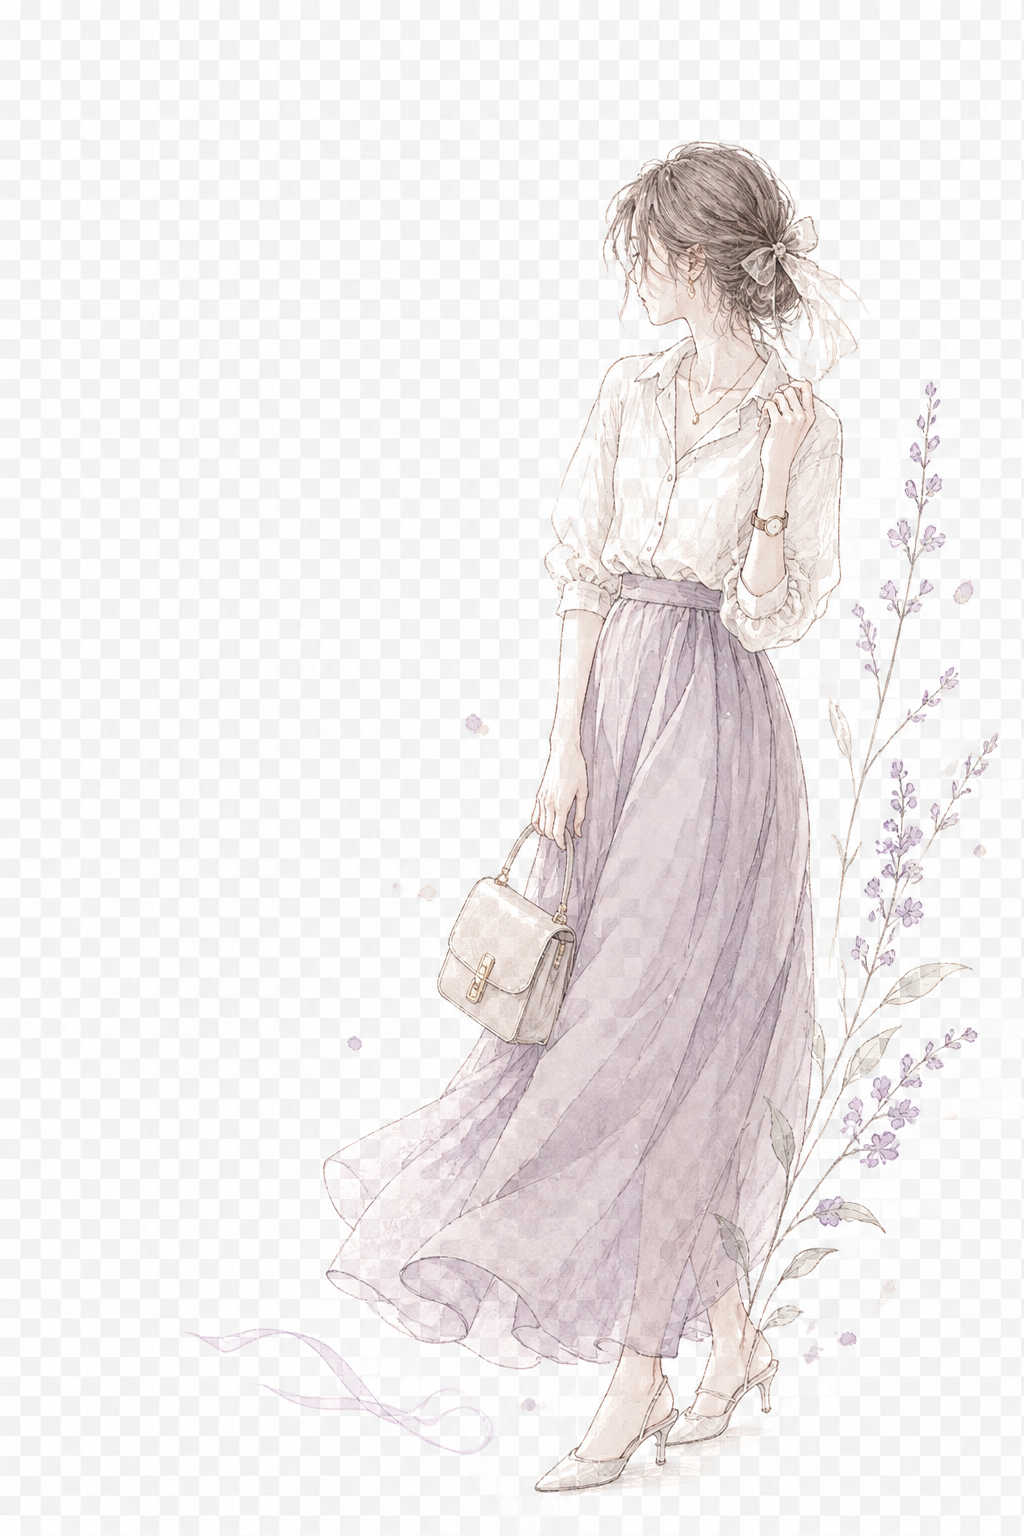
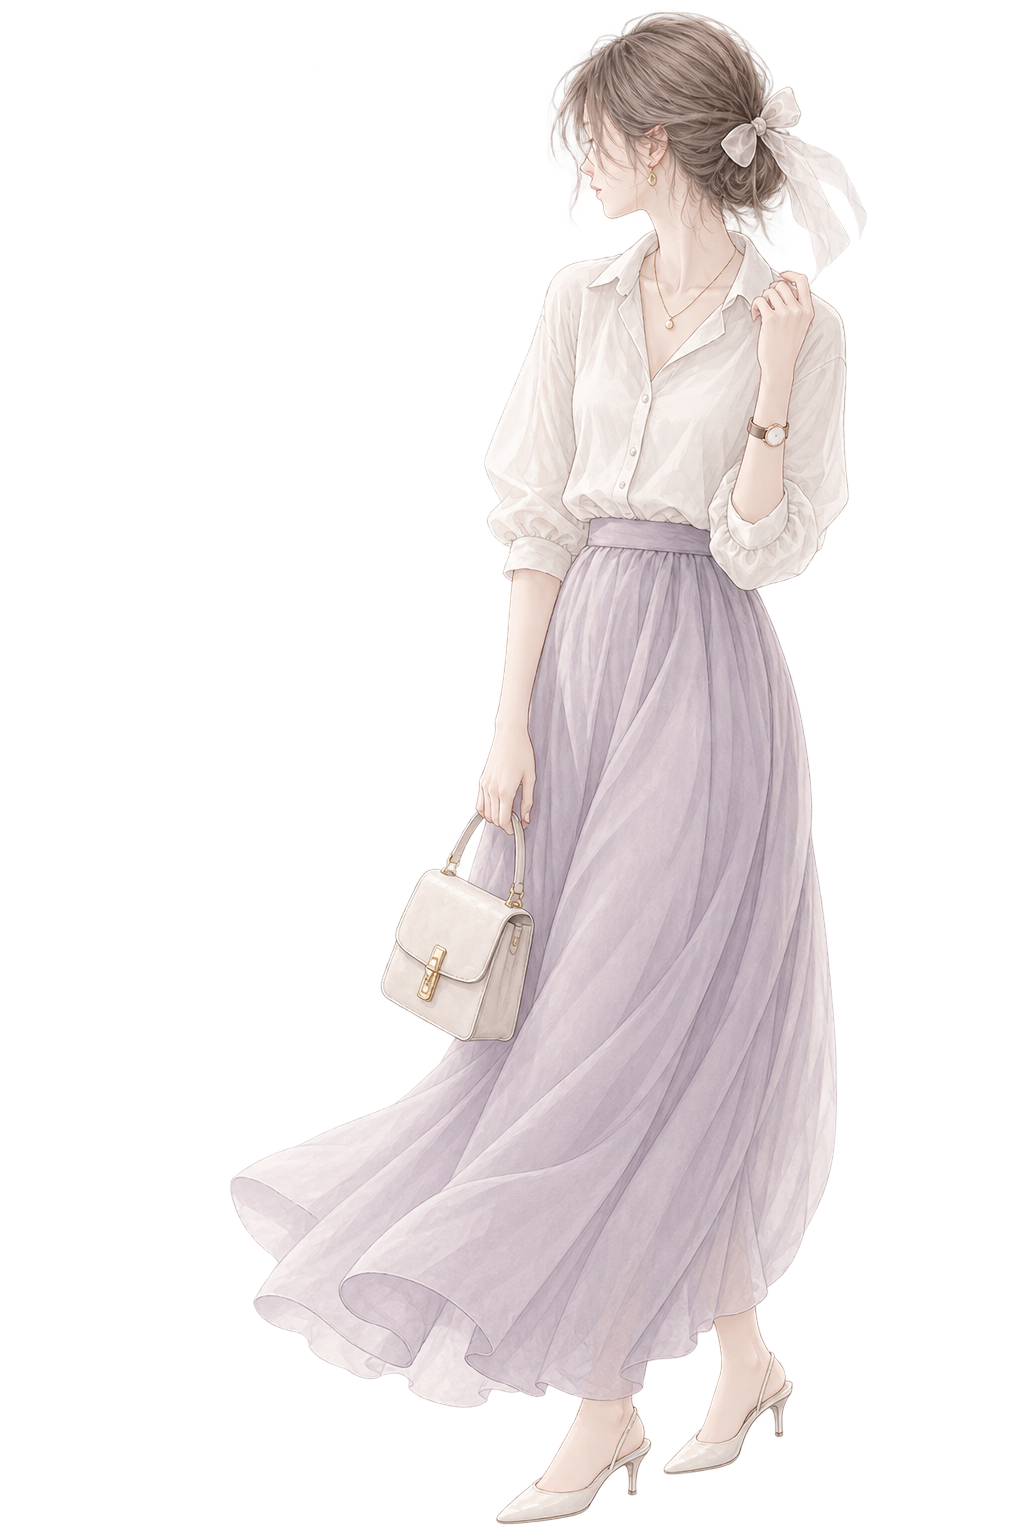
fix: simplify hero to single transparent floating illustration and fix desktop animation

Changed region(s): [[0.2188, 0.0, 0.9688, 1.0], [0.9375, 0.375, 0.9688, 0.4062], [0.8125, 0.8438, 0.8438, 0.875]]

diff --git a/style.css b/style.css
@@ -77,83 +77,100 @@ header {
 }
 
 /* ==========================================================================
-   HERO EDITORIAL SECTION
+   HERO EDITORIAL SECTION (CLEAN SINGLE ART)
    ========================================================================== */
 
-.hero-section {
-  position: relative;
-  width: 100%;
-  height: 440px;
-  background-color: #faf9f8;
-  overflow: hidden;
-  display: flex;
-  align-items: center;
-  margin-bottom: 40px;
-  border-bottom: 1px solid rgba(229, 229, 229, 0.6);
-}
-
-/* Gambar 1: Background Halus (Menempel Penuh di Sisi Kanan) */
-.hero-bg-art {
-  position: absolute;
-  top: 0;
-  right: 0;
-  width: 65%;
-  min-width: 600px;
-  height: 100%;
-  object-fit: cover;
-  object-position: right center;
-  opacity: 0.16;
-  pointer-events: none;
-  z-index: 0;
-  -webkit-mask-image: linear-gradient(to right, transparent 0%, rgba(0,0,0,1) 45%);
-  mask-image: linear-gradient(to right, transparent 0%, rgba(0,0,0,1) 45%);
-}
-
-/* Typography Hero */
-.hero-content {
-  position: relative;
-  z-index: 2;
-  max-width: 520px;
-  margin-left: max(5%, calc((100vw - 1200px) / 2 + 16px));
-  pointer-events: none;
-}
-
-.hero-title {
-  font-family: 'Cormorant Garamond', Georgia, serif;
-  font-size: 40px;
-  font-weight: 300;
-  line-height: 1.25;
-  color: #1a1a1a;
-  letter-spacing: -0.2px;
-}
-
-/* Gambar 2: Floating Fashion Illustration */
-.hero-floating-art {
-  position: absolute;
-  right: max(4%, calc((100vw - 1200px) / 2));
-  bottom: -30px;
-  height: 96%;
-  max-height: 430px;
-  width: auto;
-  object-fit: contain;
-  pointer-events: none;
-  z-index: 1;
-  /* Jika file masih ada latar belakang kotak-kotak, blend-mode membantu menyamarkan area putihnya */
-  mix-blend-mode: multiply;
-  animation: subtleBreathe 6s ease-in-out infinite;
-}
-
-@keyframes subtleBreathe {
-  0% { transform: translateY(0) rotate(0deg); }
-  50% { transform: translateY(-7px) rotate(0.4deg); }
-  100% { transform: translateY(0) rotate(0deg); }
-}
-
-@media (prefers-reduced-motion: reduce) {
-  .hero-floating-art {
-    animation: none;
+   .hero-section {
+    position: relative;
+    width: 100%;
+    height: 420px;
+    background-color: #faf9f8;
+    overflow: hidden;
+    display: flex;
+    align-items: center;
+    margin-bottom: 36px;
+    border-bottom: 1px solid rgba(229, 229, 229, 0.6);
   }
-}
+  
+  /* Typography Hero */
+  .hero-content {
+    position: relative;
+    z-index: 2;
+    max-width: 520px;
+    margin-left: max(6%, calc((100vw - 1200px) / 2 + 20px));
+    pointer-events: none;
+  }
+  
+  .hero-title {
+    font-family: 'Cormorant Garamond', Georgia, serif;
+    font-size: 42px;
+    font-weight: 300;
+    line-height: 1.22;
+    color: #1a1a1a;
+    letter-spacing: -0.3px;
+  }
+  
+  /* Floating Fashion Illustration (Desktop & Default) */
+  .hero-floating-art {
+    position: absolute;
+    right: max(6%, calc((100vw - 1200px) / 2 + 10px));
+    bottom: -20px;
+    height: 94%;
+    max-height: 410px;
+    width: auto;
+    object-fit: contain;
+    pointer-events: none;
+    z-index: 1;
+    /* Animasi Floating Halus */
+    animation: subtleBreathe 6s ease-in-out infinite alternate;
+    will-change: transform;
+  }
+  
+  @keyframes subtleBreathe {
+    0% {
+      transform: translateY(0px) rotate(0deg);
+    }
+    50% {
+      transform: translateY(-9px) rotate(0.4deg);
+    }
+    100% {
+      transform: translateY(0px) rotate(0deg);
+    }
+  }
+  
+  /* ==========================================================================
+     RESPONSIVE / MOBILE
+     ========================================================================== */
+  
+  @media (max-width: 768px) {
+    .hero-section {
+      height: 330px;
+      margin-bottom: 24px;
+    }
+  
+    .hero-content {
+      margin-left: 18px;
+      max-width: 250px;
+    }
+  
+    .hero-title {
+      font-size: 28px;
+      line-height: 1.2;
+    }
+  
+    .hero-floating-art {
+      right: -10px;
+      bottom: -15px;
+      height: 88%;
+      max-height: 290px;
+      animation: subtleBreatheMobile 5s ease-in-out infinite alternate;
+    }
+  
+    @keyframes subtleBreatheMobile {
+      0% { transform: translateY(0px); }
+      100% { transform: translateY(-7px); }
+    }
+  }
 
 /* ==========================================================================
    PRODUCT GRID & CONTAINER

diff --git a/index.html b/index.html
@@ -30,9 +30,7 @@
 
   <!-- HERO EDITORIAL LAYER -->
   <section class="hero-section">
-    <!-- Gambar 1: Background Decorative Illustration -->
-    <img src="assets/images/hero-bg.png" class="hero-bg-art" alt="Decorative background" loading="eager">
-    
+
     <!-- Gambar 2: Floating Fashion Illustration -->
     <img src="assets/images/hero-floating.png" class="hero-floating-art" alt="Fashion illustration" loading="eager">
 
